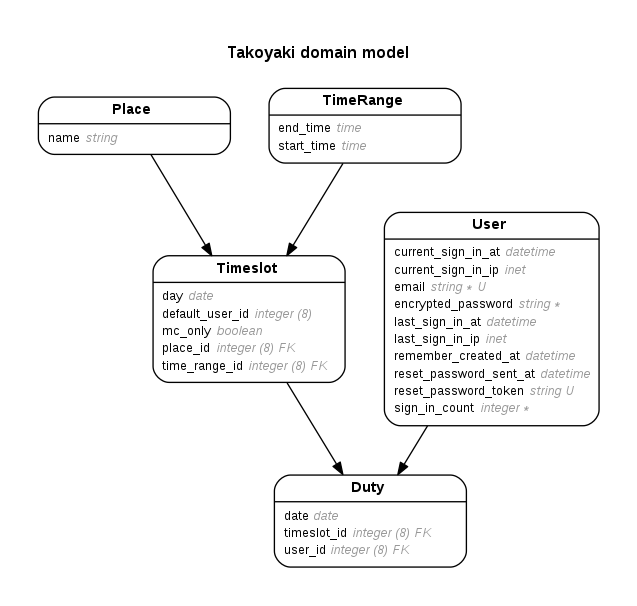
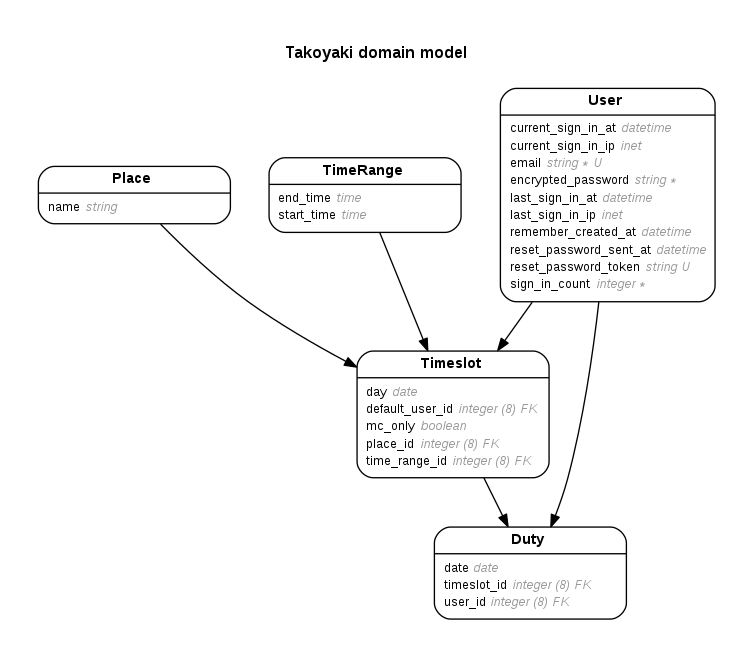
Add db seed and fix models according to Apollo

Changed region(s): [[0.0298, 0.0594, 0.9545, 0.9505]]

diff --git a/db/seeds.rb b/db/seeds.rb
@@ -1,4 +1,5 @@
 # frozen_string_literal: true
+
 # This file should contain all the record creation needed to seed the database
 # with its default values.
 # The data can then be loaded with the rails db:seed command (or created
@@ -9,3 +10,56 @@
 #   movies = Movie.create([{ name: 'Star Wars' },
 #                          { name: 'Lord of the Rings' }])
 #   Character.create(name: 'Luke', movie: movies.first)
+
+Place.create(name: 'YIH')
+Place.create(name: 'AS8')
+
+('08:00'.to_time.to_i..'09:30'.to_time.to_i).step(30.minutes).each do |time|
+  start = Time.zone.at(time)
+  TimeRange.create(start_time: start, end_time: start + 30.minutes)
+end
+('10:00'.to_time.to_i..'20:00'.to_time.to_i).step(1.hour.to_i).each do |time|
+  start = Time.zone.at(time)
+  TimeRange.create(start_time: start, end_time: start + 1.hour)
+end
+
+User.create(email: 'test@example.com', password: '123456')
+
+# Timeslots in YIH
+Date::DAYNAMES.each do |day|
+  TimeRange.all.each do |tr|
+    mc = nil
+    open = tr.start_time.in_time_zone.strftime('%H%M')
+    close = tr.end_time.in_time_zone.strftime('%H%M')
+
+    if day == 'Sunday'
+      next if open < '0930' || close > '1500'
+      mc = (open == '0930' || close == '1500')
+    elsif day == 'Saturday'
+      next if open < '0830' || close > '1700'
+      mc = (open == '0830' || close == '1700')
+    else
+      next if open < '0830' || close > '2100'
+      mc = (open == '0830' || close == '2100')
+    end
+
+    Timeslot.create(mc_only: mc, day: day, default_user_id: User.take,
+                    time_range: tr, place: Place.find_by(name: 'YIH'))
+  end
+end
+
+# Timeslots in AS8
+Date::DAYNAMES.each do |day|
+  TimeRange.all.each do |tr|
+    mc = false
+    open = tr.start_time.in_time_zone.strftime('%H%M')
+    close = tr.end_time.in_time_zone.strftime('%H%M')
+
+    next if day == 'Sunday'
+    next if (day == 'Saturday') && (open < '0800' || close > '1700')
+    next if open < '0800' || close > '2100'
+
+    Timeslot.create(mc_only: mc, day: day, default_user_id: User.take,
+                    time_range: tr, place: Place.find_by(name: 'AS8'))
+  end
+end

diff --git a/app/models/user.rb b/app/models/user.rb
@@ -31,5 +31,5 @@ class User < ApplicationRecord
   devise :database_authenticatable, :registerable,
          :recoverable, :rememberable, :trackable, :validatable
   has_many :duties
-  has_many :timeslots, foreign_key: :default_user_id, inverse_of: :timeslot
+  has_many :timeslots, foreign_key: :default_user_id, inverse_of: :user
 end

diff --git a/spec/models/timeslot_spec.rb b/spec/models/timeslot_spec.rb
@@ -31,7 +31,7 @@ require 'rails_helper'
 
 RSpec.describe Timeslot, type: :model do
   it { should have_many(:duties) }
-  it { should belong_to(:user) }
+  it { should belong_to(:default_user).class_name('User') }
   it { should belong_to(:place) }
   it { should belong_to(:time_range) }
 end

diff --git a/spec/models/user_spec.rb b/spec/models/user_spec.rb
@@ -29,5 +29,5 @@ require 'rails_helper'
 
 RSpec.describe User, type: :model do
   it { should have_many(:duties) }
-  it { should have_many(:timeslots).with_foreign_key('default_user_id') }
+  it { should have_many(:timeslots).with_foreign_key(:default_user_id) }
 end

diff --git a/app/models/timeslot.rb b/app/models/timeslot.rb
@@ -29,7 +29,7 @@
 
 class Timeslot < ApplicationRecord
   has_many :duties
-  belongs_to :user, foreign_key: :default_user_id, inverse_of: :user
+  belongs_to :default_user, class_name: 'User', inverse_of: :timeslots
   belongs_to :place
   belongs_to :time_range
 end
